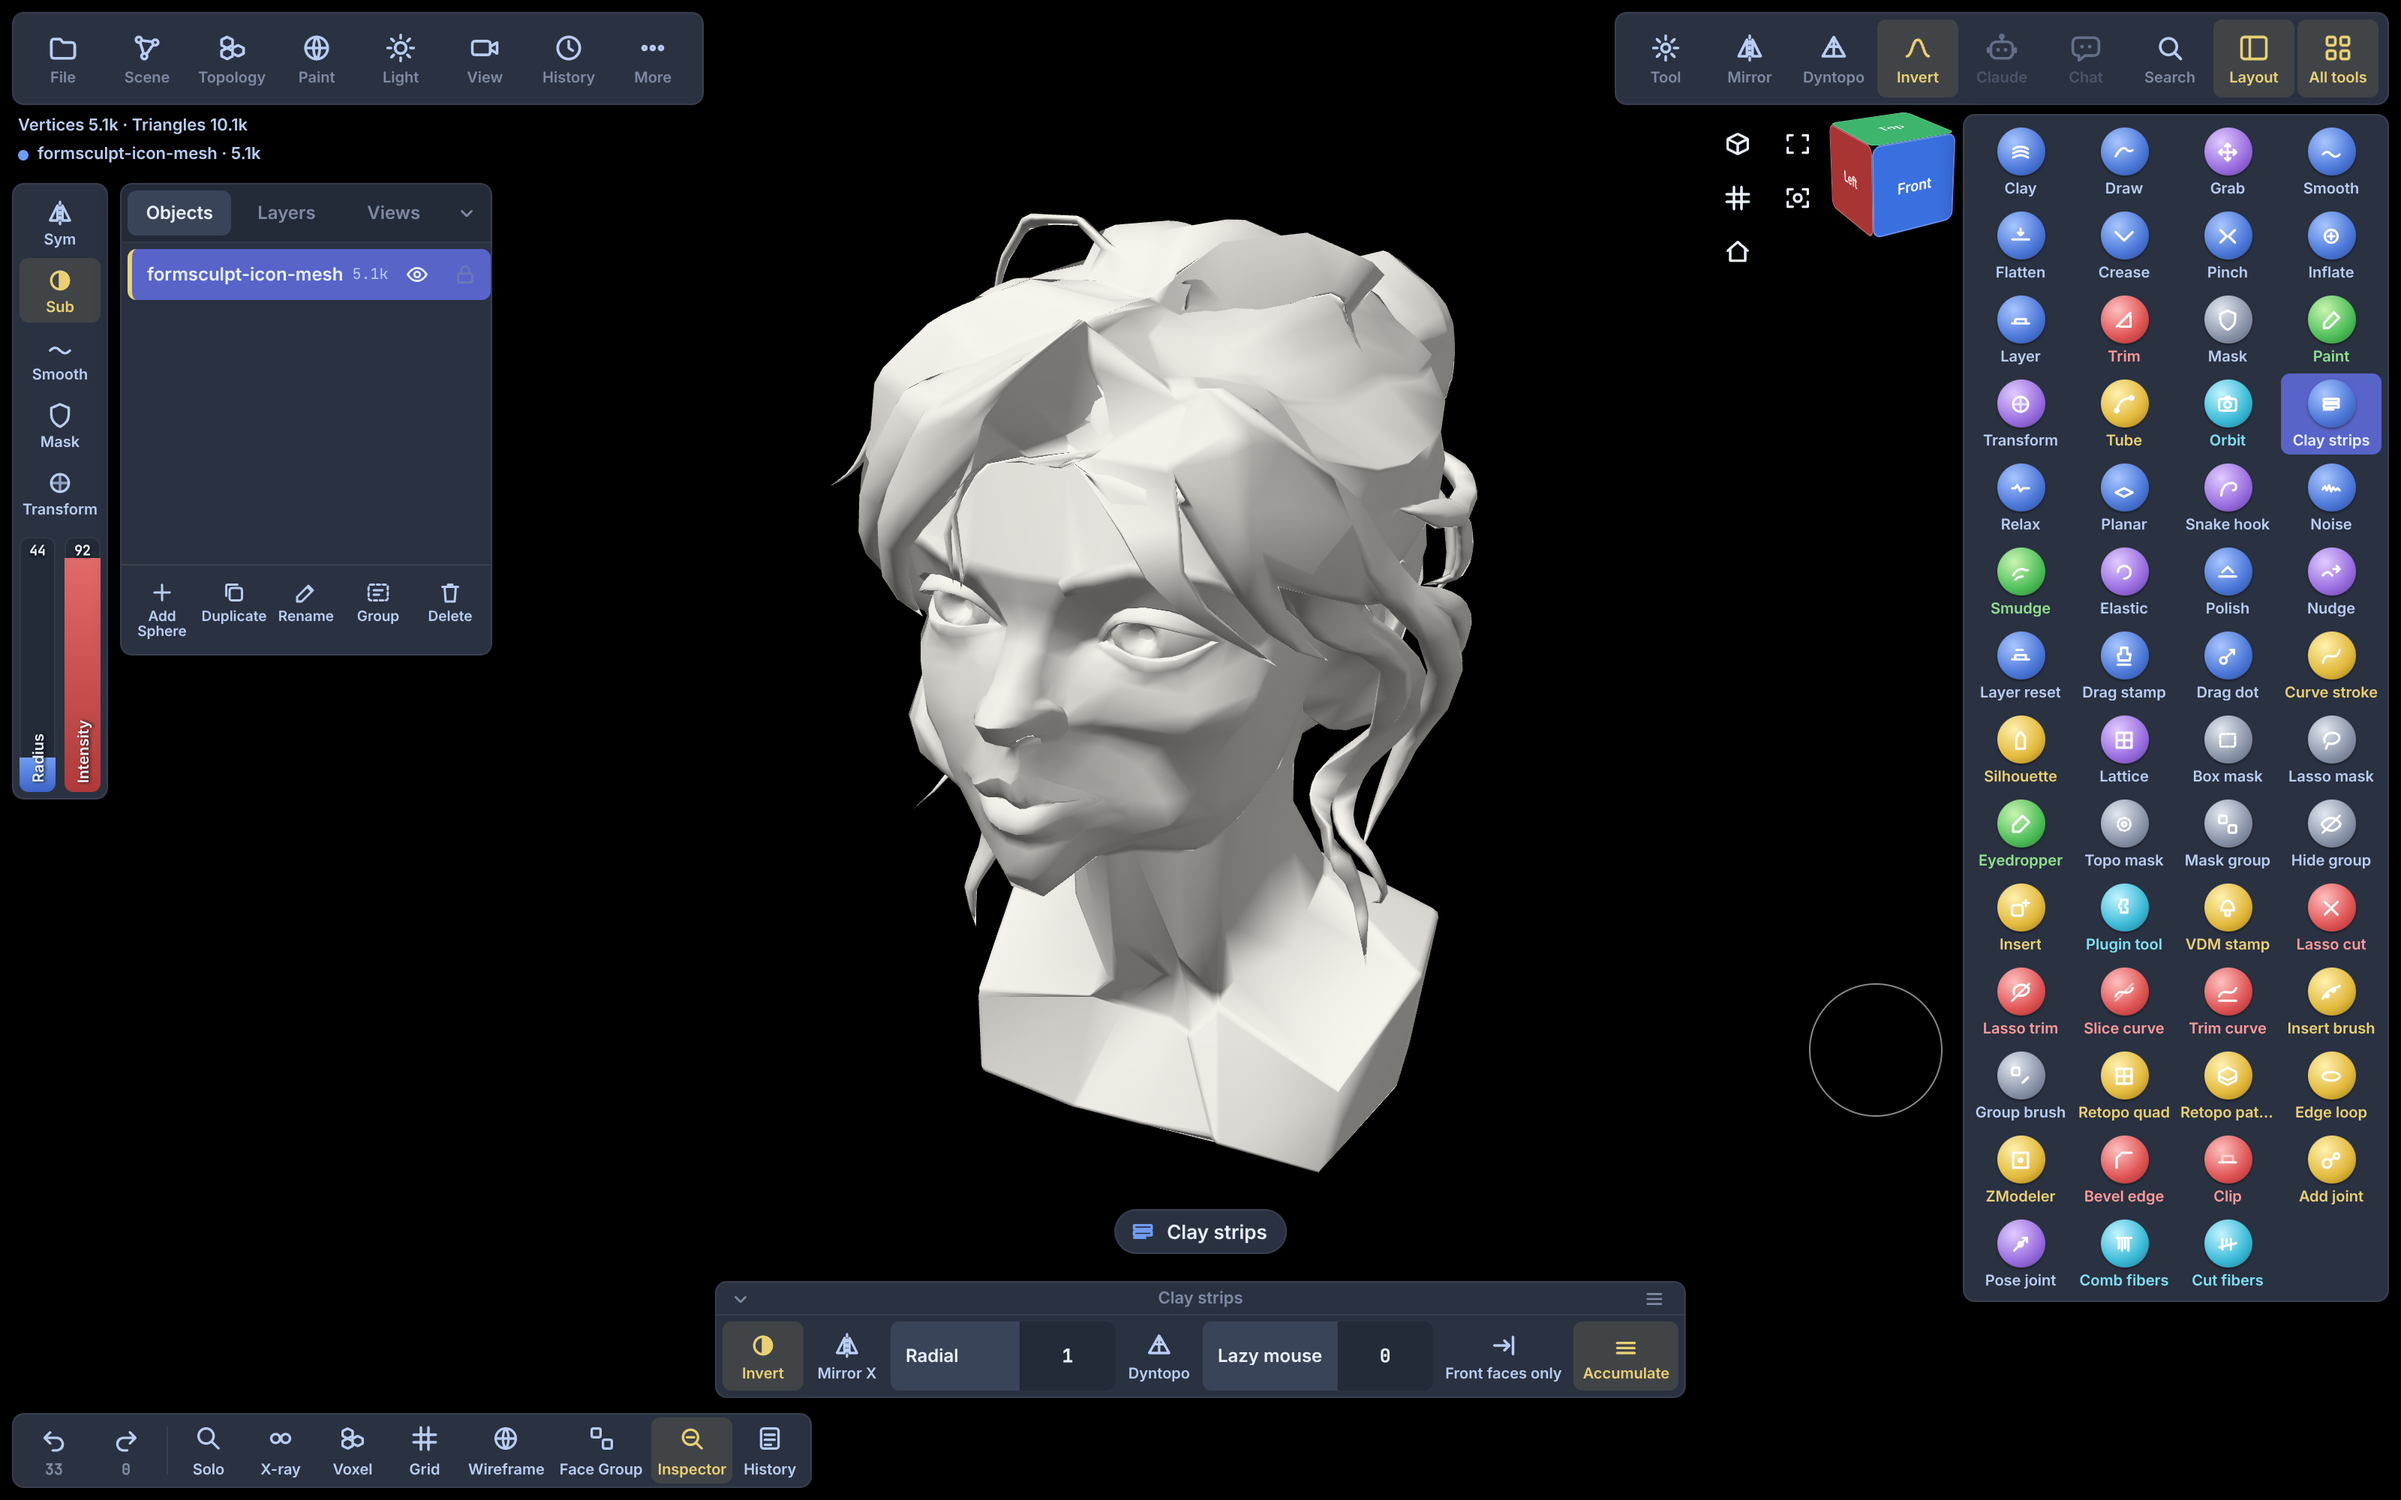
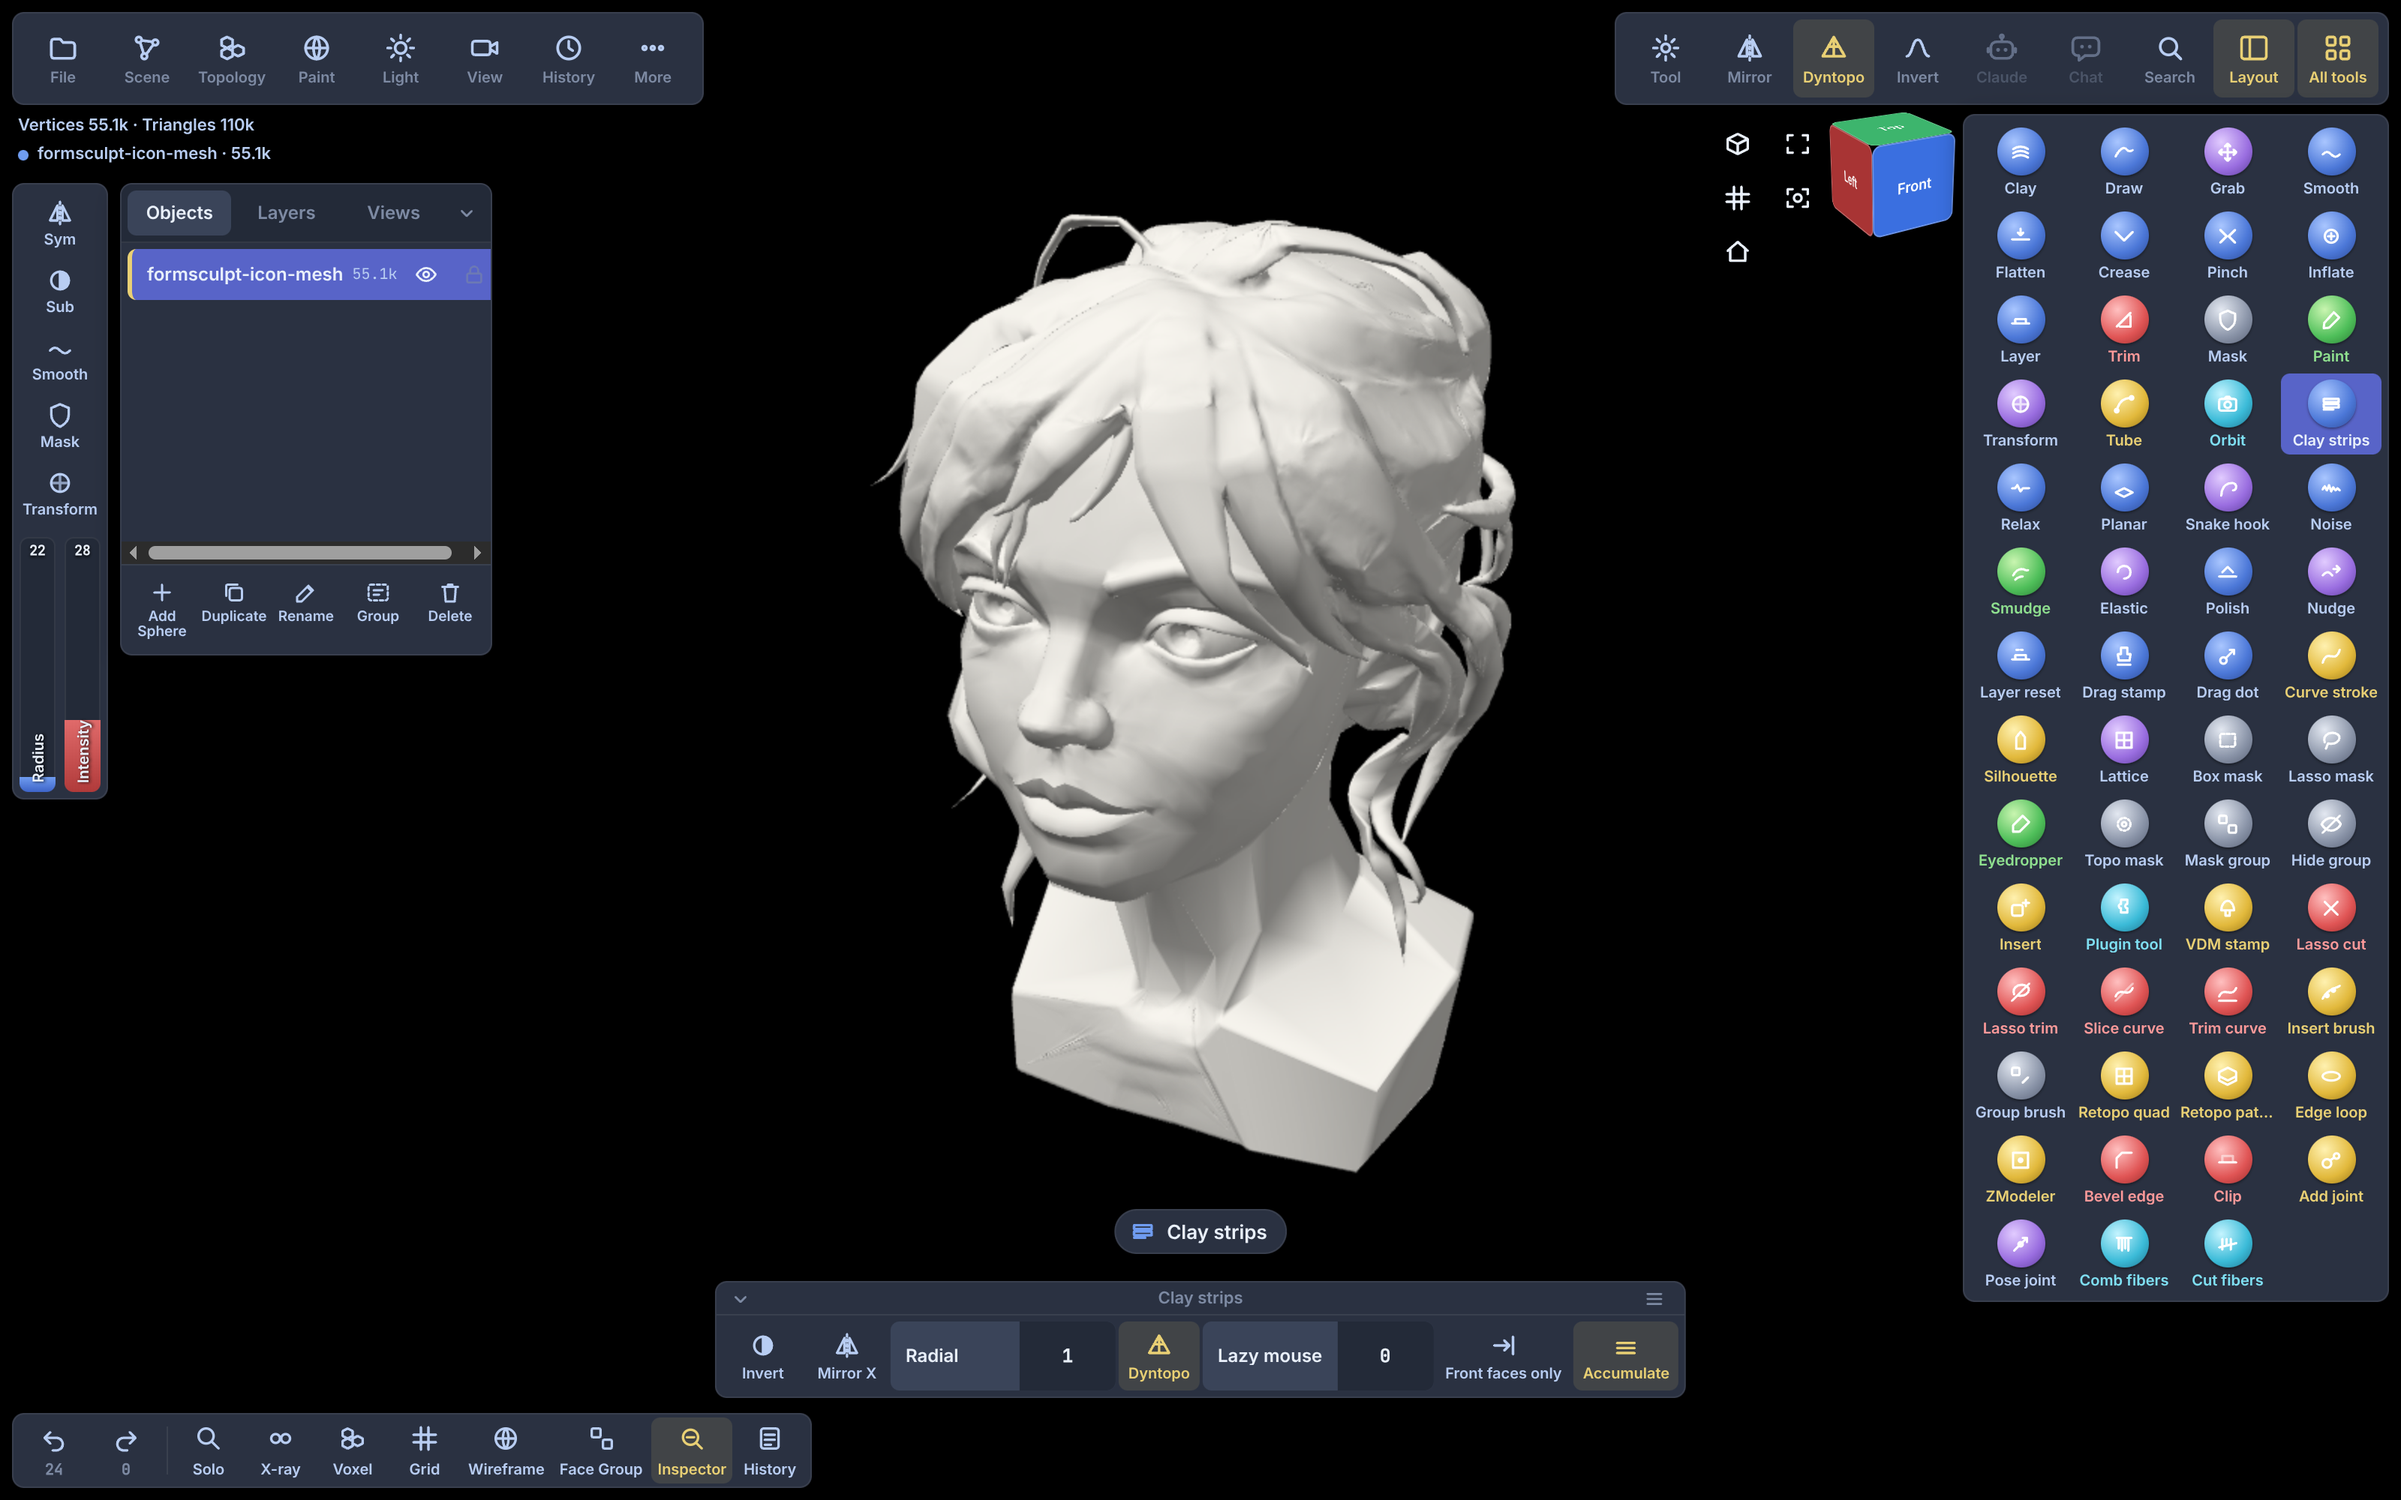
docs(images): clean sculpted plaster bust as the README hero

diff --git a/README.md b/README.md
@@ -26,9 +26,9 @@
 </p>
 
 <p align="center">
-  <img src="docs/images/formsculpt-hero.png" alt="FormSculpt with the female head bust from the app icon shown as white plaster with visible Clay strips, Crease and Draw tool marks in the hair, cheek and plinth, the tool grid on the right and the Objects panel on the left" width="100%">
+  <img src="docs/images/formsculpt-hero.png" alt="FormSculpt with the female head bust from the app icon shown as clean white plaster, soft additive Clay strips marks worked into the hair and plinth while the face stays untouched, the Clay strips tool selected in the tool grid on the right and the Objects panel on the left" width="100%">
   <br>
-  <sub>The head bust the FormSculpt icon was made from, imported as FBX, shown with a white plaster matcap and worked over with Clay strips, Crease and Draw strokes.</sub>
+  <sub>The head bust the FormSculpt icon was made from, imported as FBX, shown with a white plaster matcap and reworked with soft additive Clay strips passes on the hair, back of the head and plinth, with the face left intact.</sub>
 </p>
 
 <p align="center">
